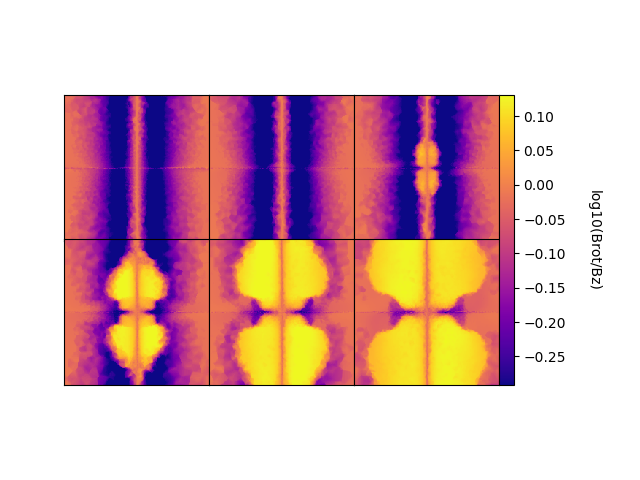
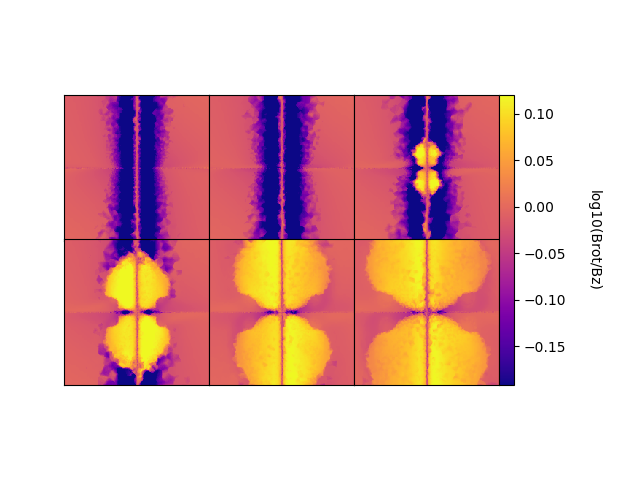
.

diff --git a/lewis_arepo_code/analyse.py b/lewis_arepo_code/analyse.py
@@ -339,17 +339,18 @@ def ratioB_cube(name,size_cu,pixels):
 def ratioB_plot(dirname,names,weight_type,pixels):
 	fig,axs=plt.subplots(2,3)#sharey=True,sharex=True)
 	axs=axs.ravel()
-	width=int(pixels/5)
+	width_rho=int(pixels/40)
+	width_bratio=int(pixels/10)
 	mid=int(pixels/2)
 	for i in range (len(axs)):
 		if weight_type=='bratio':
-			bratio=np.absolute(ratioB_cube(dirname+names[5-i],0.12,pixels)[:,mid-width:mid+width,:])
-			bratio=np.sum(bratio,1)/(2*width)
+			bratio=np.absolute(ratioB_cube(dirname+names[5-i],0.12,pixels)[:,mid-width_bratio:mid+width_bratio,:])
+			bratio=np.sum(bratio,1)/(2*width_bratio)
 			tag='log10(Brot/Bz)'
 		if weight_type=='rho':
 			print(i)
 			bratio=np.fromfile(dirname+names[5-i],dtype=np.int32)[3:].reshape(pixels,pixels,pixels) *code_units.rho_cu
-			bratio=np.sum(bratio[:,mid-width:mid+width,:],1)/(2*width)
+			bratio=np.sum(bratio[:,mid-width_rho:mid+width_rho,:],1)/(2*width_rho)
 			tag='log10(rho/gcm^3)'
 		if i==0:
 			im=axs[5-i].imshow(np.log10(np.rot90(bratio)),cmap='plasma')
